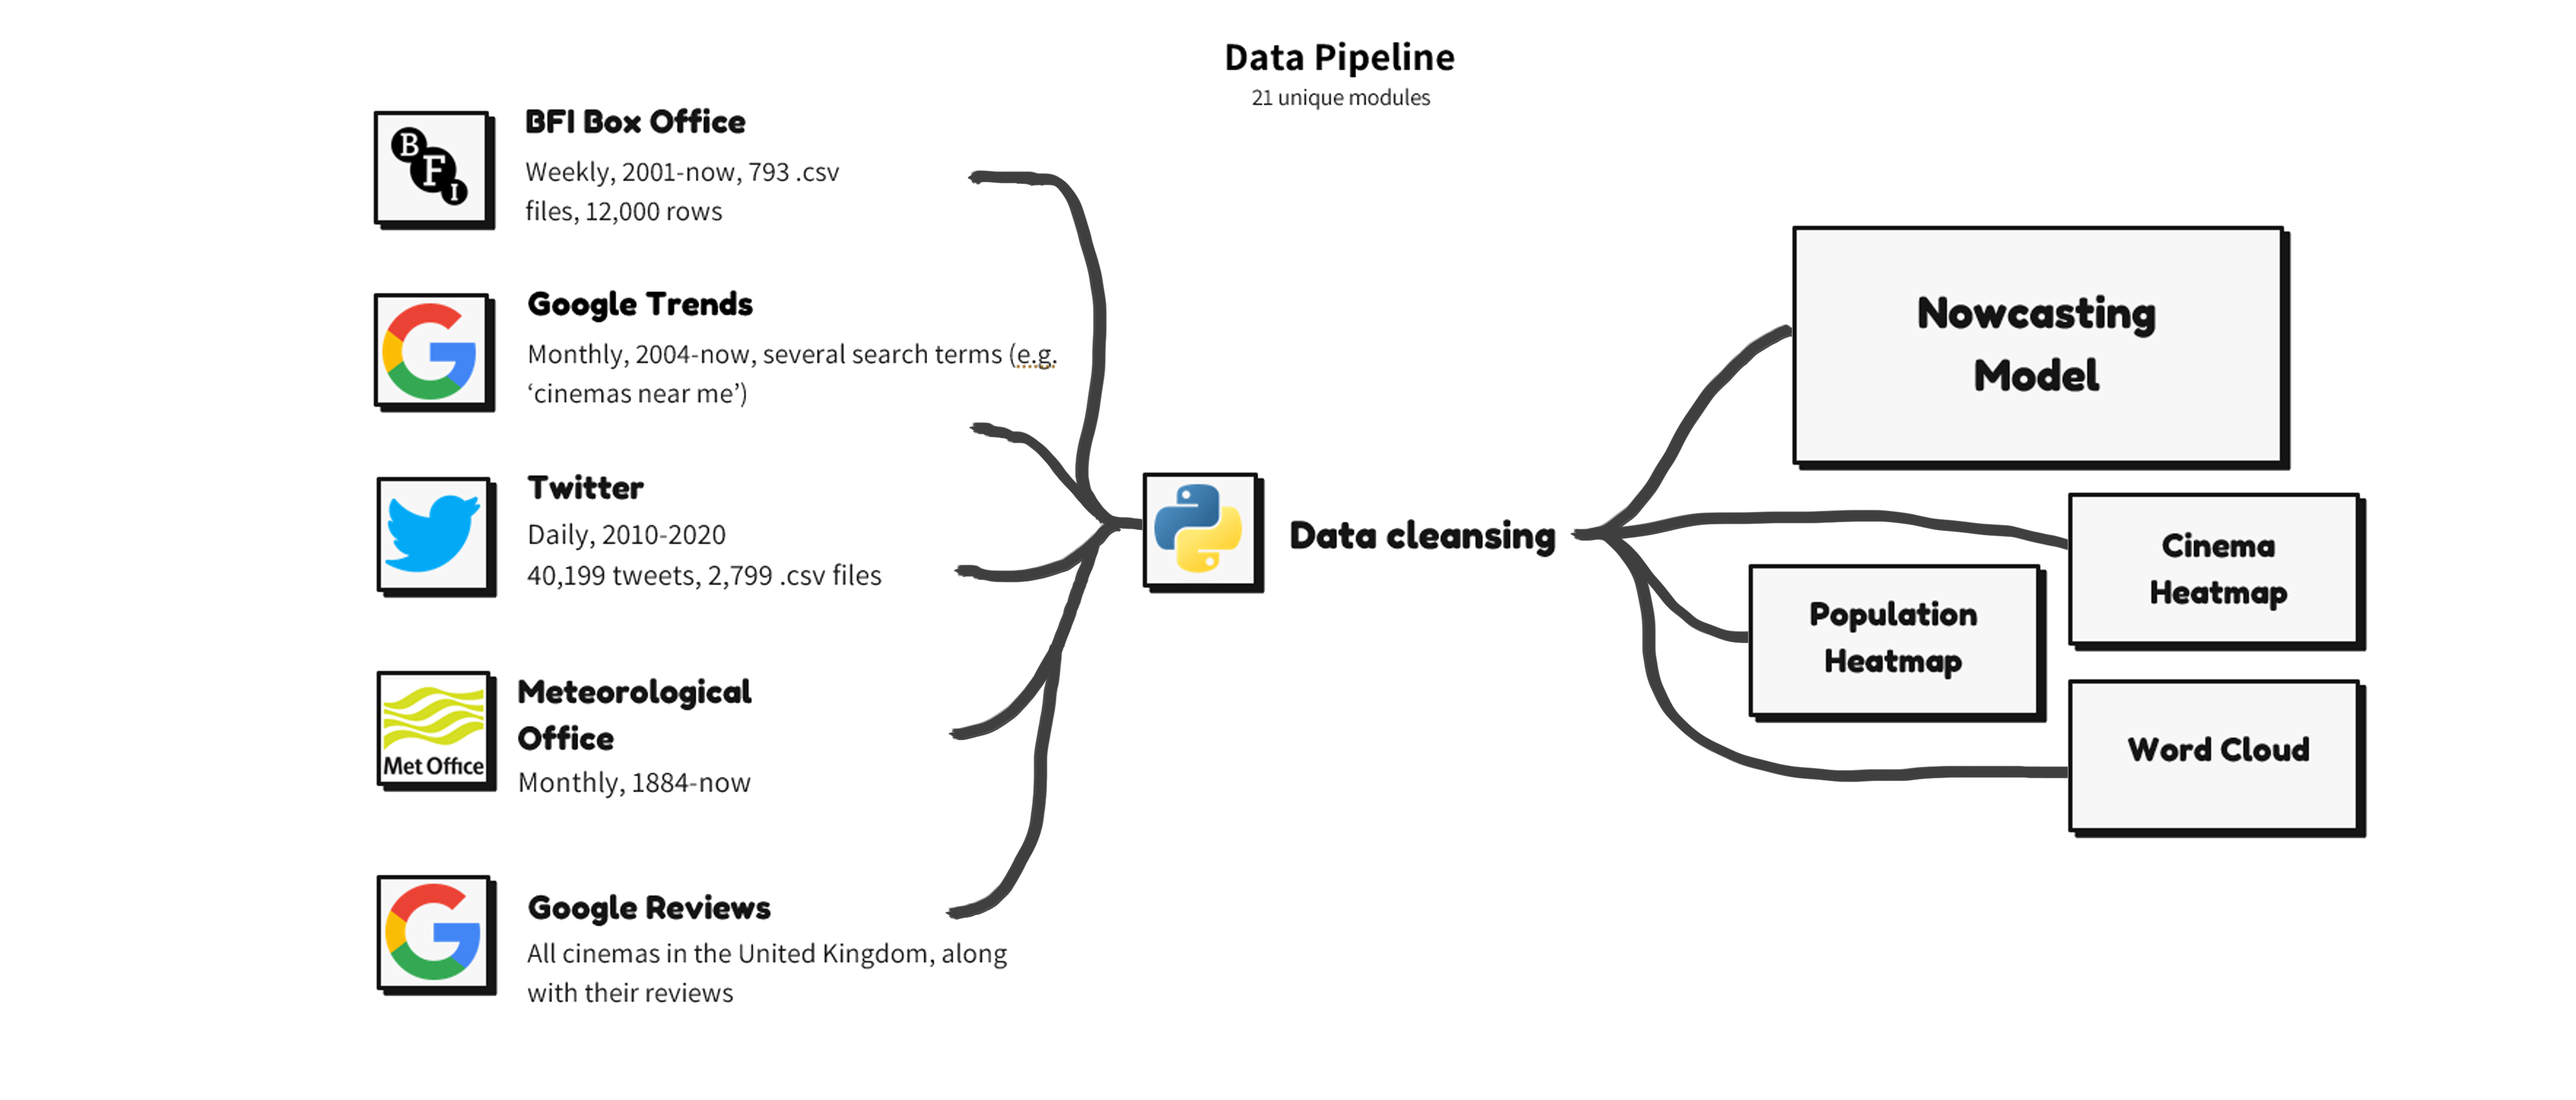
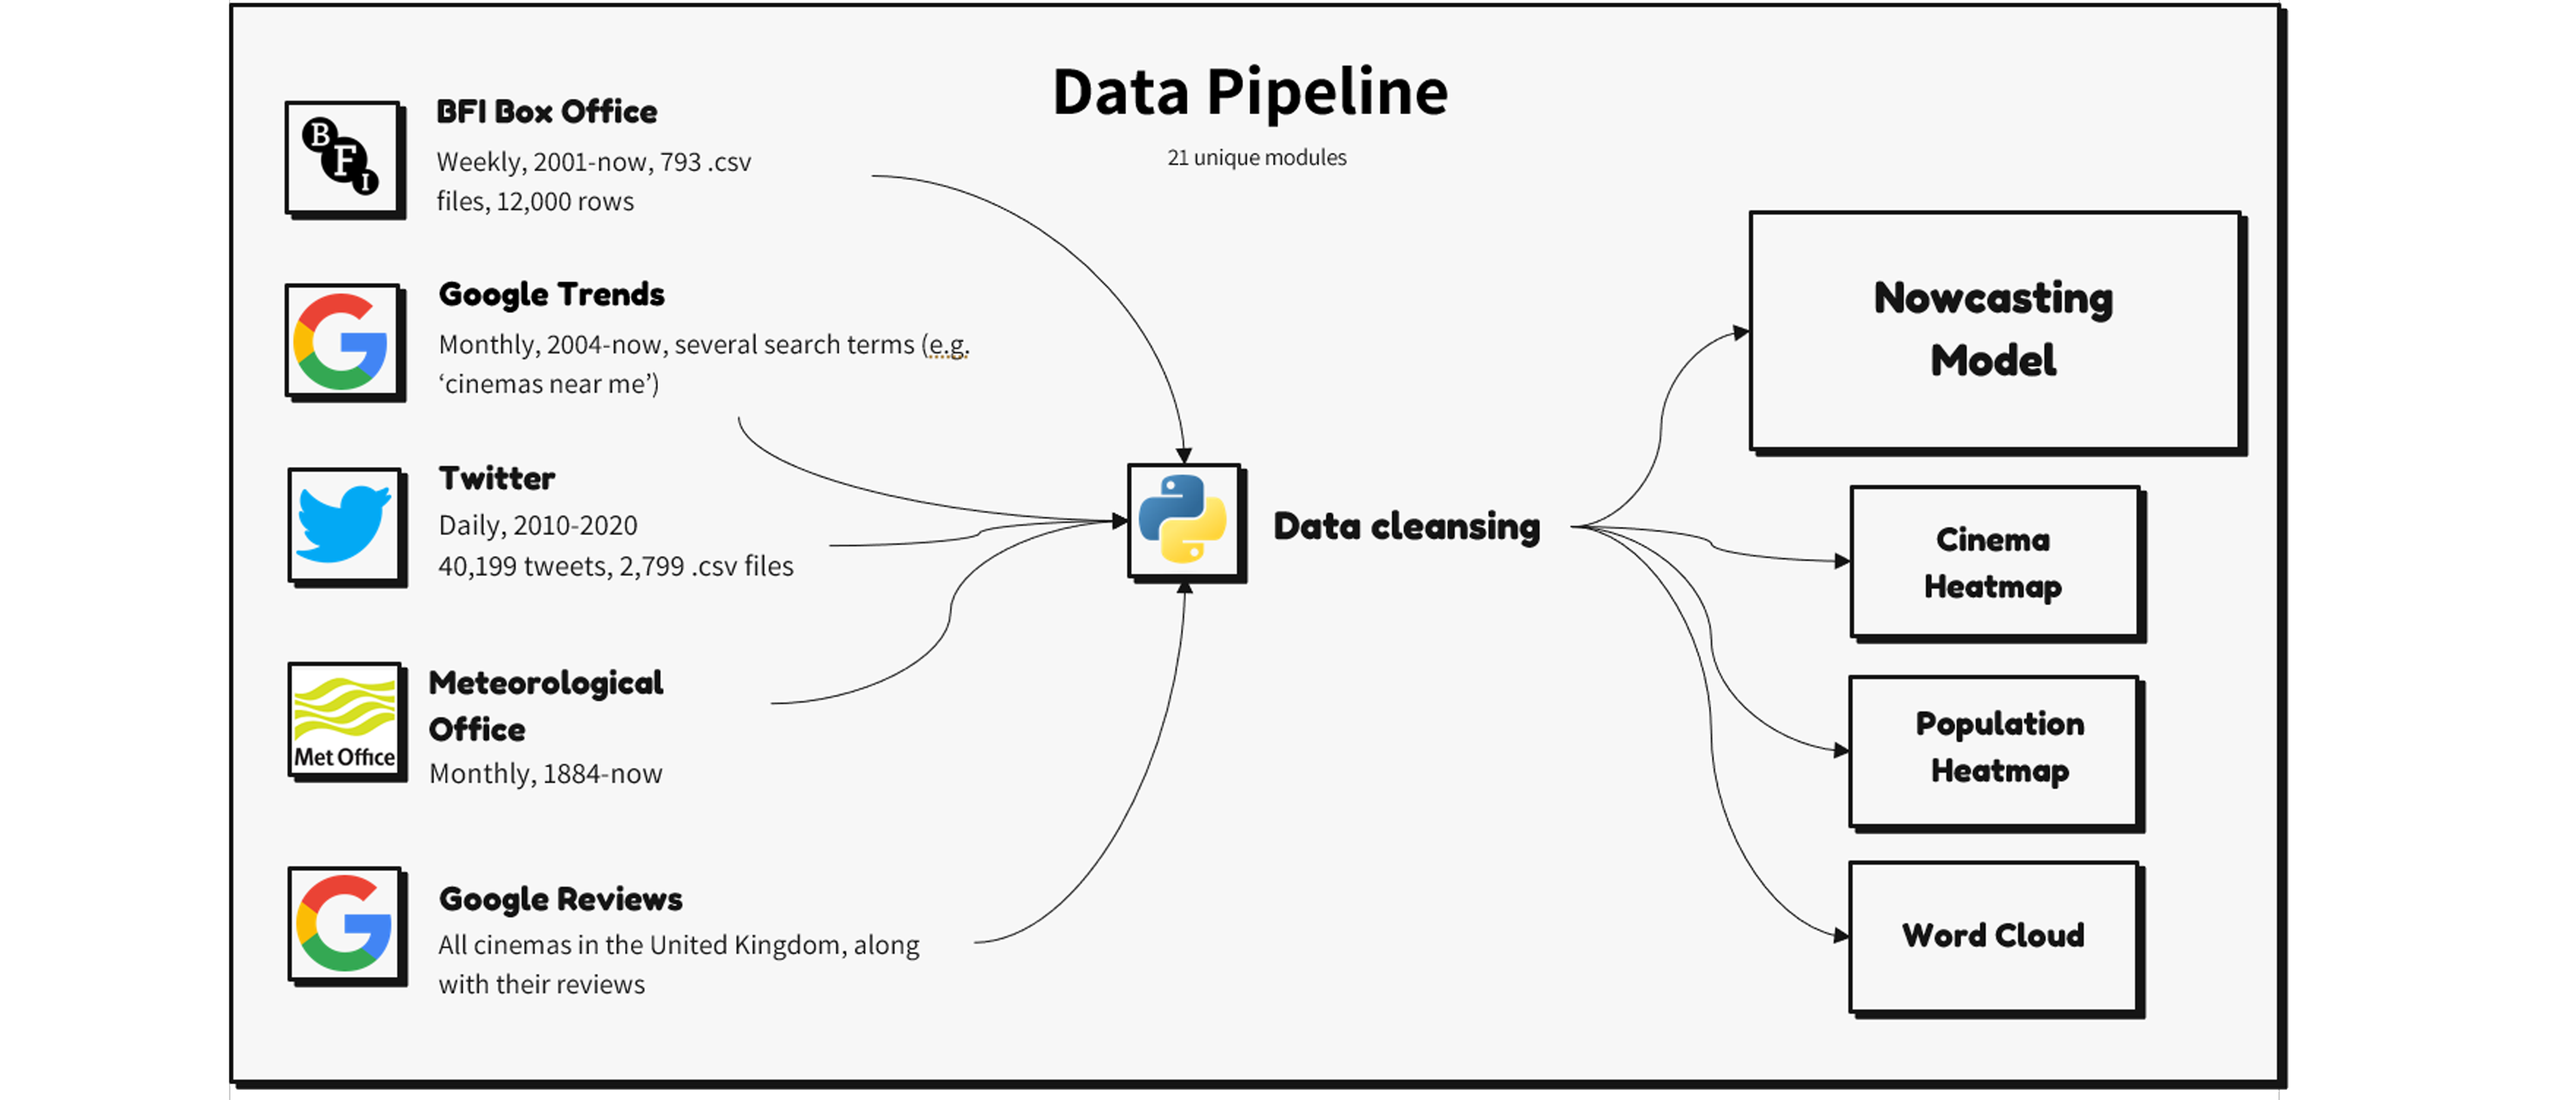
editing readme

diff --git a/README.md b/README.md
@@ -2,8 +2,6 @@
 
 Hi! Welcome - this repository was created to facilitate exploring the use of cinema data and web scraping techniques as an alternative economic proxy for economic activity in the UK (United Kingdom). 
 
-(note: the images in this readme are best read with a white background)
-
 Context:
 
 In economic analysis, there has been a trend of using unconventional indicators. 
@@ -21,10 +19,7 @@ This was a light check to investigate this, and we found a strong overlap
 ![alt text](resources/images/heatmaps.png?raw=true)
 
 Due to the volatile nature of events such as covid, we wanted to focus on more short term forecasting: Nowcasting. 
-It is less known, but used in capturing current state of the economy
-
-
-
+It is less known, but used in capturing current state of the economy.
 
 The high-level logic of the pipeline is as follows:
 
